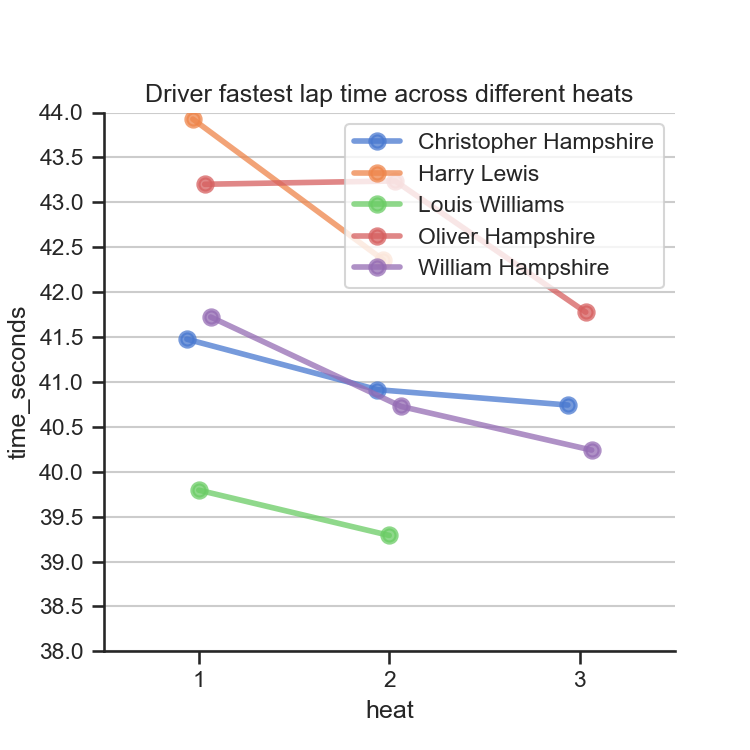
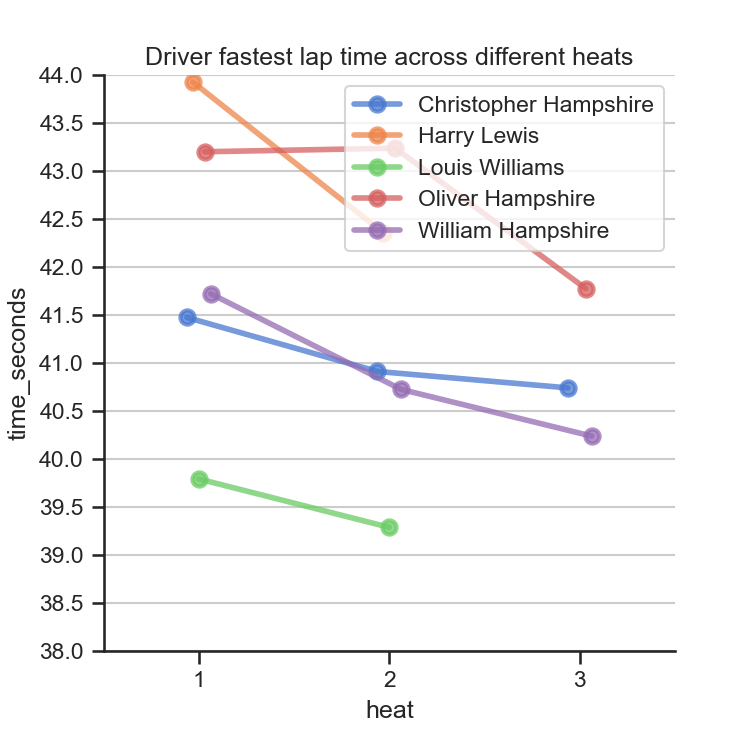
Updated

diff --git a/main.py b/main.py
@@ -174,7 +174,7 @@ def plot_cat_graphs(heats_df: DF, cwd: str) -> None:
     plt.ylim(38, 44)
     plt.grid(True, which='both', axis='y')
     plt.title("Driver fastest lap time across different heats", pad=5)
-    plt.subplots_adjust(top=0.85, right=0.9)
+    plt.subplots_adjust(top=0.9, right=0.9)
     plt.legend(loc='upper right')
 
     plt.savefig(f'{cwd}/graphs/fastest_catplot.png', dpi=150)
@@ -253,9 +253,9 @@ def main() -> None:
     melted_heats_df = melted_heats_df.dropna(subset=['time'])
     melted_heats_df.to_csv(f"{cwd}/data/data_melted.csv")
 
-    #plot_cat_graphs(melted_heats_df, cwd)
-    #plot_single_graphs(melted_heats_df, cwd)
-    #plot_basic_graphs(melted_heats_df, cwd)
+    plot_cat_graphs(melted_heats_df, cwd)
+    plot_single_graphs(melted_heats_df, cwd)
+    plot_basic_graphs(melted_heats_df, cwd)
     plot_hist_graphs(melted_heats_df, cwd)
 
 
